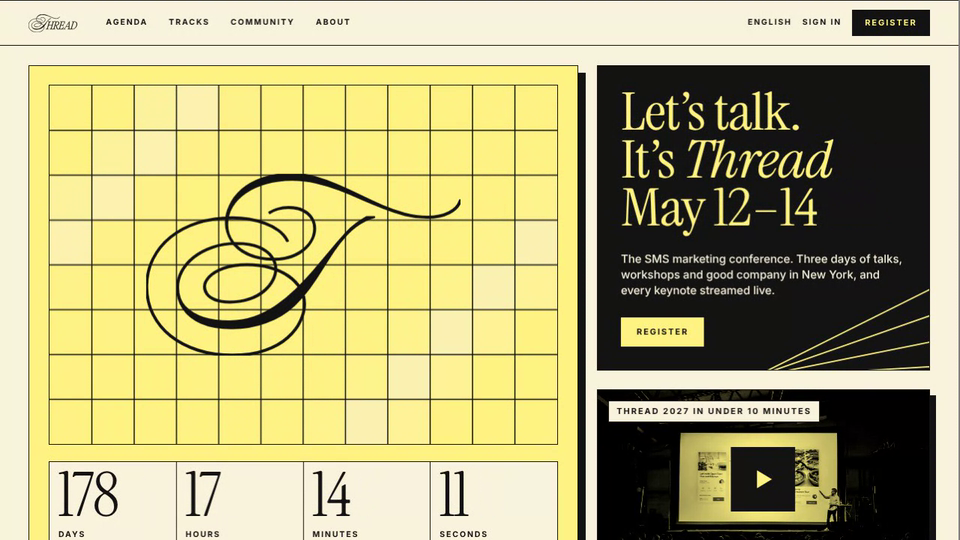
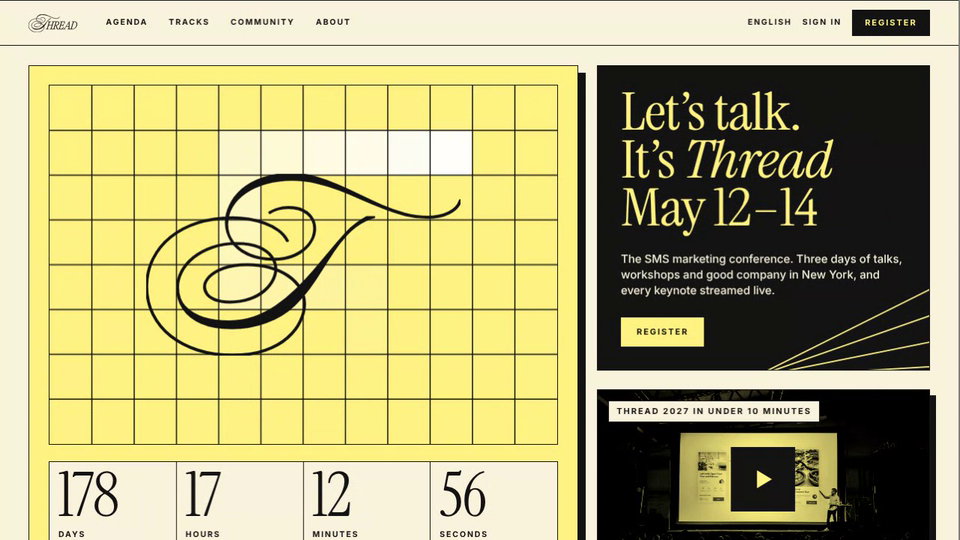
Thread Conference Landing Page: white block trail animation on the hero grid
Claude-Session: https://claude.ai/code/session_01AHeBe1E3DCKJgm5k1K7BVJ

diff --git a/thread-conference-landing/index.html b/thread-conference-landing/index.html
@@ -219,20 +219,24 @@ const w=['Thread 2027','May 12–14','New York','The SMS marketing conference'];
 document.getElementById('tk').innerHTML=Array(16).fill(w).flat().map(t=>'<span>'+t+'</span>').join('');
 /* save toggles */
 document.querySelectorAll('.sv').forEach(b=>b.addEventListener('click',()=>{const on=b.getAttribute('aria-pressed')!=='true';b.setAttribute('aria-pressed',on);b.textContent=on?'Saved ✓':'Save to My Thread'}));
-/* hairline grid behind the swash; cells under the cursor light up cream */
-(()=>{const c=document.getElementById('bg'),x=c.getContext('2d'),reduce=matchMedia('(prefers-reduced-motion:reduce)').matches;let W,H,mx=-1,my=-1,t0=performance.now();
- const N=12;
- function size(){const r=c.getBoundingClientRect(),d=devicePixelRatio||1;W=c.width=r.width*d;H=c.height=r.height*d}
- function draw(now){const t=(now-t0)/1000;x.clearRect(0,0,W,H);const cw=W/N,rows=Math.round(H/cw),ch=H/rows;
-  for(let i=0;i<N;i++)for(let j=0;j<rows;j++){const cx=(i+.5)*cw,cy=(j+.5)*ch;let a=reduce?0:Math.max(0,Math.sin(t*.9-(i+j)*.55))**8*.55;
-   if(mx>=0){const dd=Math.hypot(cx-mx,cy-my)/cw;a=Math.max(a,Math.max(0,1-dd/2.2))}
-   if(a>.02){x.fillStyle='rgba(250,244,222,'+a+')';x.fillRect(i*cw,j*ch,cw,ch)}}
+/* hairline grid behind the swash: a white block wanders cell to cell and leaves a fading trail; the cursor leaves one too */
+(()=>{const c=document.getElementById('bg'),x=c.getContext('2d'),reduce=matchMedia('(prefers-reduced-motion:reduce)').matches,N=12,FADE=1.7,STEP=.13;
+ let W,H,cw,ch,rows,heat=[],mx=-1,my=-1,hx=2,hy=1,dx=1,dy=0,last=performance.now(),acc=0;
+ const rnd=(()=>{let a=7;return()=>{a=(a*1664525+1013904223)>>>0;return a/4294967296}})();
+ function size(){const r=c.getBoundingClientRect(),d=devicePixelRatio||1;W=c.width=Math.round(r.width*d);H=c.height=Math.round(r.height*d);cw=W/N;rows=Math.max(1,Math.round(H/cw));ch=H/rows;heat=Array.from({length:N},()=>new Float32Array(rows));hx=Math.min(hx,N-1);hy=Math.min(hy,rows-1)}
+ function move(){const opts=[[1,0],[-1,0],[0,1],[0,-1]].filter(([a,b])=>!(a===-dx&&b===-dy)&&hx+a>=0&&hx+a<N&&hy+b>=0&&hy+b<rows);
+  let m=opts.find(([a,b])=>a===dx&&b===dy&&rnd()<.62)||opts[Math.floor(rnd()*opts.length)];dx=m[0];dy=m[1];hx+=dx;hy+=dy;heat[hx][hy]=1}
+ function draw(now){const dt=Math.min(.1,(now-last)/1e3);last=now;x.clearRect(0,0,W,H);
+  if(!reduce){acc+=dt;while(acc>STEP){acc-=STEP;move()}
+   if(mx>=0){const i=Math.floor(mx/cw),j=Math.floor(my/ch);if(heat[i]&&j>=0&&j<rows)heat[i][j]=1}}
+  for(let i=0;i<N;i++)for(let j=0;j<rows;j++){let v=heat[i][j];if(v>0){x.fillStyle='rgba(255,255,255,'+v.toFixed(3)+')';x.fillRect(i*cw,j*ch,cw,ch);if(!reduce)heat[i][j]=Math.max(0,v-dt/FADE)}}
   x.strokeStyle='#141414';x.lineWidth=1.5*(devicePixelRatio||1);x.beginPath();
   for(let i=1;i<N;i++){x.moveTo(i*cw,0);x.lineTo(i*cw,H)}for(let j=1;j<rows;j++){x.moveTo(0,j*ch);x.lineTo(W,j*ch)}x.stroke();
   if(!reduce)requestAnimationFrame(draw)}
  c.parentElement.addEventListener('pointermove',e=>{const r=c.getBoundingClientRect(),d=devicePixelRatio||1;mx=(e.clientX-r.left)*d;my=(e.clientY-r.top)*d});
  c.parentElement.addEventListener('pointerleave',()=>{mx=my=-1});
- addEventListener('resize',size);size();requestAnimationFrame(draw)})();
+ addEventListener('resize',size);size();
+ if(reduce){[[3,2],[4,2],[5,3],[6,3]].forEach(([i,j],k)=>{if(heat[i]&&j<rows)heat[i][j]=.35+.2*k});draw(performance.now())}else requestAnimationFrame(draw)})();
 </script>
 </body>
 </html>
